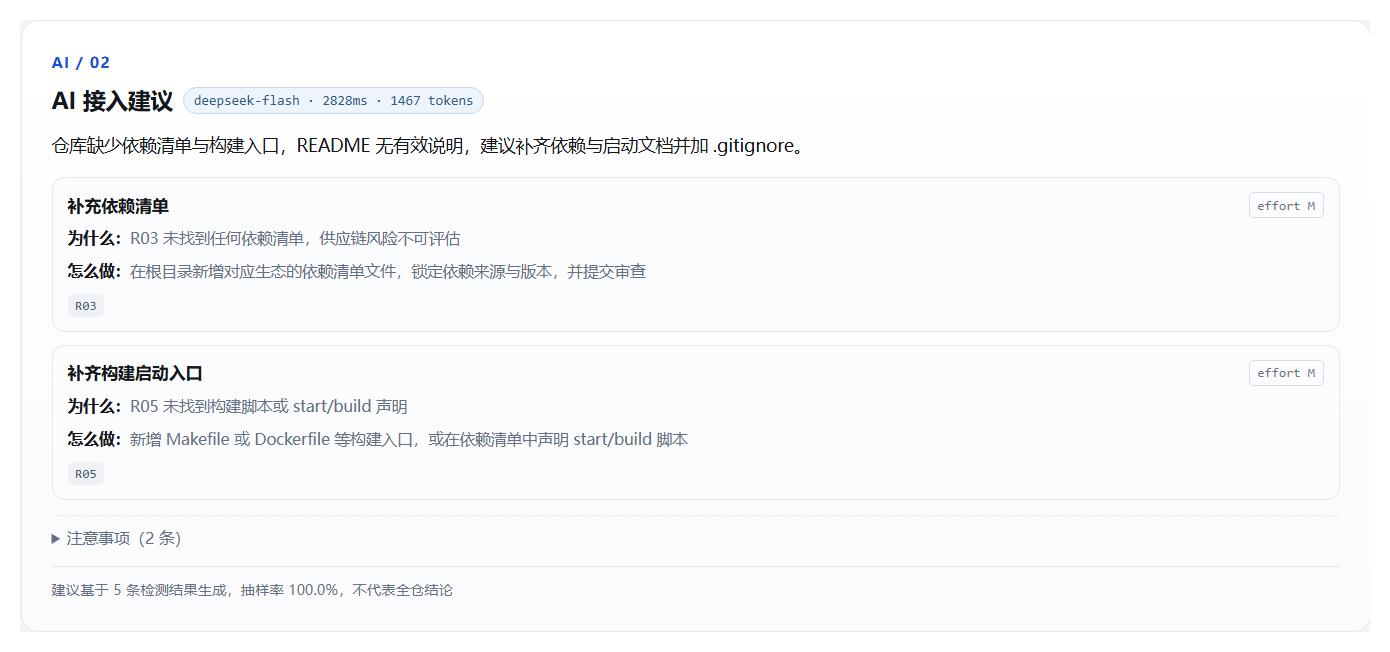
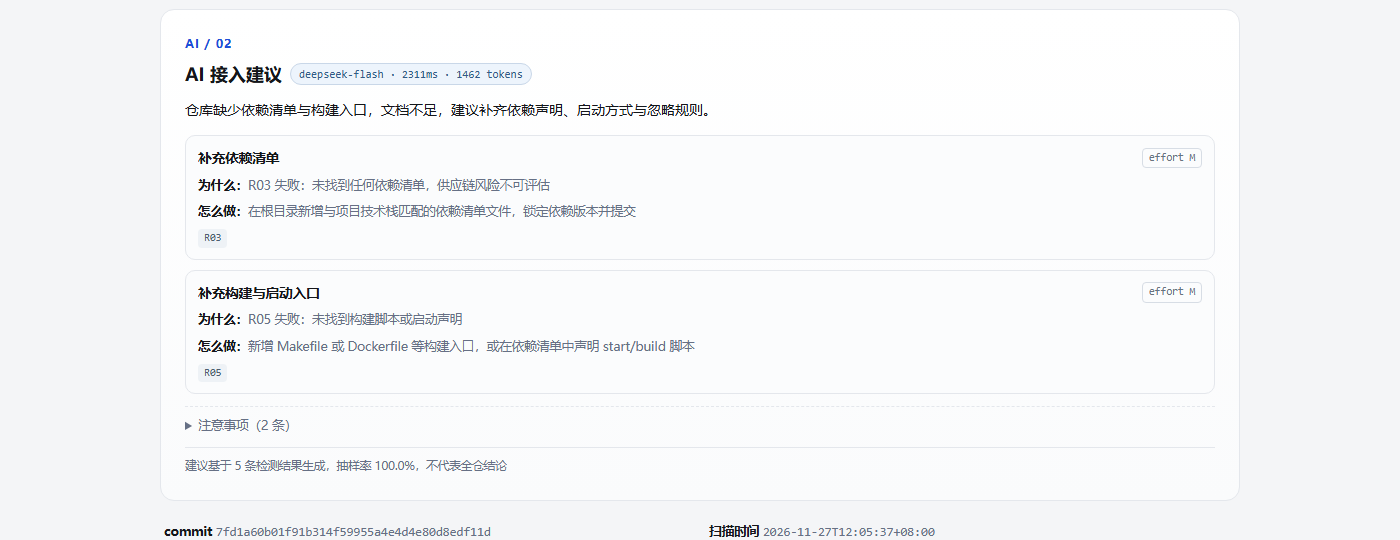
fix: 加载项目根 .env；AI 建议放开 low 规则白名单并按原因归因；页面加重新扫描与分享链接

diff --git a/app/templates/index.html b/app/templates/index.html
@@ -27,6 +27,7 @@
         value="{{ repo_url }}"
       >
       <button type="submit">检查</button>
+      <button type="submit" name="refresh" value="1" class="secondary" title="忽略缓存重新扫描；会消耗 GitHub API 配额">重新扫描</button>
     </form>
     <div class="examples" aria-label="示例仓库">
       <span class="examples-label">试试：</span>
@@ -261,7 +262,7 @@
       {% else %}
       <div class="advice-head">
         <h2>接入建议（规则生成）</h2>
-        <span class="advice-badge muted">{% if advice and advice.model %}模型失败，已回退{% else %}未配置模型{% endif %}</span>
+        <span class="advice-badge muted" title="{{ advice.fallback_reason if advice and advice.fallback_reason else '' }}">{% if not advice or not advice.model %}未配置模型{% elif advice.fallback_reason == 'quota_exceeded' %}模型额度不足，已回退{% elif advice.fallback_reason == 'rate_limited' %}模型限流，已回退{% elif advice.fallback_reason == 'timeout' %}模型超时，已回退{% elif advice.fallback_reason == 'auth_error' %}模型鉴权失败，已回退{% elif advice.fallback_reason in ('schema_invalid', 'empty_actions') %}模型输出不合规，已回退{% elif advice.fallback_reason in ('bad_json', 'bad_response') %}模型响应异常，已回退{% elif advice.fallback_reason == 'network_error' %}模型网络异常，已回退{% else %}模型失败，已回退{% endif %}</span>
       </div>
       {% endif %}
       {% if advice %}
@@ -367,9 +368,10 @@
           }
           if (hint) hint.hidden = true;
           if (skeleton) skeleton.hidden = false;
-          if (submit) {
-            submit.disabled = true;
-            submit.textContent = "检查中…";
+          var clicked = event.submitter || submit;
+          if (clicked) {
+            clicked.disabled = true;
+            clicked.textContent = "扫描中…";
           }
         });
       })();

diff --git a/app/static/style.css b/app/static/style.css
@@ -101,6 +101,16 @@ h2 {
   background: #1e40af;
 }
 
+.lookup button.secondary {
+  background: transparent;
+  color: var(--accent);
+  border: 1px solid #c7d2fe;
+}
+
+.lookup button.secondary:hover {
+  background: #eef2ff;
+}
+
 .examples {
   display: flex;
   flex-wrap: wrap;

diff --git a/app/advice.py b/app/advice.py
@@ -75,6 +75,14 @@ class AdviceValidationError(ValueError):
     """模型输出不符合服务端 schema。"""
 
 
+class AdviceCallError(ValueError):
+    """模型调用失败；reason 用于区分鉴权、额度、限流、超时与坏响应。"""
+
+    def __init__(self, reason: str, message: str) -> None:
+        super().__init__(message)
+        self.reason = reason
+
+
 @dataclass
 class RuleAdvice:
     title: str
@@ -267,11 +275,18 @@ def build_prompt(context: dict[str, Any]) -> str:
 
 
 def _allowed_rules(result: InspectResponse) -> set[str]:
-    return {
+    """允许模型引用的规则：失败/降级规则，以及任何有 finding 的规则。
+
+    只放 fail 会误伤「R09 low（.gitignore 未含 .env）」这类提示项：
+    模型给出合理建议却因规则不在白名单被整条丢弃，最后退化成 rules fallback。
+    """
+    allowed = {
         check.rule_id
         for check in result.checks
         if check.status in {"fail", "degraded", "warn"}
     }
+    allowed |= {finding.rule_id for finding in result.findings}
+    return allowed
 
 
 def _extract_json(text: str) -> dict[str, Any]:
@@ -468,7 +483,7 @@ async def _call_model(
 ) -> tuple[str, int, int]:
     config = _llm_config()
     if config is None:
-        raise AdviceValidationError("未配置 LLM")
+        raise AdviceCallError("missing_config", "未配置 LLM")
     base, key, model = config
     headers = {"Authorization": f"Bearer {key}", "Content-Type": "application/json"}
     payload = {
@@ -478,14 +493,14 @@ async def _call_model(
             {"role": "user", "content": build_prompt(context)},
         ],
         "temperature": 0.2,
-        "max_tokens": 600,
+        "max_tokens": 900,
     }
-    # DeepSeek V4 默认把 600 token 预算全部用在 reasoning_content，content 为空。
+    # DeepSeek V4 默认把 token 预算全部用在 reasoning_content，content 为空。
     # 仅对显式配置或 DeepSeek 端点关闭 thinking，保持其他 OpenAI 兼容端点不受影响。
     if os.environ.get("LLM_DISABLE_THINKING", "").strip() == "1" or "deepseek" in base.lower():
         payload["thinking"] = {"type": "disabled"}
     started = time.monotonic()
-    last_error: Exception | None = None
+    last_error: AdviceCallError | None = None
     for attempt in range(2):
         try:
             if transport is not None:
@@ -502,22 +517,44 @@ async def _call_model(
                 if close:
                     await client.aclose()
             if response.status_code >= 400:
-                raise AdviceValidationError(f"LLM HTTP {response.status_code}")
-            body = response.json()
+                raise AdviceCallError(_http_reason(response.status_code), f"LLM HTTP {response.status_code}")
+            try:
+                body = response.json()
+            except ValueError as exc:
+                raise AdviceCallError("bad_json", "LLM 响应不是合法 JSON") from exc
             choices = body.get("choices") if isinstance(body, dict) else None
             if not isinstance(choices, list) or not choices:
-                raise AdviceValidationError("LLM 响应缺少 choices")
+                raise AdviceCallError("bad_response", "LLM 响应缺少 choices")
             content = choices[0].get("message", {}).get("content")
             if not isinstance(content, str):
-                raise AdviceValidationError("LLM 响应缺少 content")
+                raise AdviceCallError("bad_response", "LLM 响应缺少 content")
             usage = body.get("usage") if isinstance(body, dict) else {}
             tokens = int(usage.get("total_tokens") or 0) if isinstance(usage, dict) else 0
             return content, tokens, int(round((time.monotonic() - started) * 1000))
-        except (httpx.HTTPError, ValueError, TypeError, AdviceValidationError) as exc:
+        except AdviceCallError as exc:
             last_error = exc
-            if attempt == 0:
-                await asyncio.sleep(0.5)
-    raise AdviceValidationError(f"LLM 调用失败：{last_error}") from last_error
+        except httpx.TimeoutException as exc:
+            last_error = AdviceCallError("timeout", f"LLM 超时：{exc}")
+        except httpx.HTTPError as exc:
+            last_error = AdviceCallError("network_error", f"LLM 网络错误：{exc}")
+        except (ValueError, TypeError) as exc:
+            last_error = AdviceCallError("llm_error", f"LLM 调用失败：{exc}")
+        if attempt == 0:
+            await asyncio.sleep(0.5)
+    assert last_error is not None
+    raise last_error
+
+
+def _http_reason(status: int) -> str:
+    if status in {401, 403}:
+        return "auth_error"
+    if status == 402:
+        return "quota_exceeded"
+    if status == 429:
+        return "rate_limited"
+    if status >= 500:
+        return "upstream_error"
+    return "http_error"
 
 
 async def build_advice(
@@ -562,10 +599,16 @@ async def build_advice(
             repo=result.repo.full_name,
             commit_sha=sha,
         )
-    except (AdviceValidationError, ValueError, TypeError) as exc:
+    except (AdviceValidationError, AdviceCallError, ValueError, TypeError) as exc:
         advice = build_rules_fallback(result)
         advice.model = configured[2]
-        advice.fallback_reason = "schema_invalid" if isinstance(exc, AdviceValidationError) else "llm_error"
+        if isinstance(exc, AdviceCallError):
+            advice.fallback_reason = exc.reason
+        elif isinstance(exc, AdviceValidationError):
+            reason = "empty_actions" if "actions 为空" in str(exc) else "schema_invalid"
+            advice.fallback_reason = reason
+        else:
+            advice.fallback_reason = "llm_error"
         advice.warnings = [
             WarningInfo(
                 code="ADVICE_FALLBACK",

diff --git a/tests/test_advice.py b/tests/test_advice.py
@@ -339,3 +339,69 @@ def test_page_escapes_model_text(monkeypatch) -> None:
     assert "<script>alert" not in html
     assert "&lt;img src=x&gt;" in html
     assert "<img src=x>" not in html
+
+
+def test_allowed_rules_include_low_finding_rules() -> None:
+    """R09 low（.gitignore 未含 .env）也允许模型引用，否则合理建议会被整条丢弃。"""
+    report = make_report()
+    report.findings = [report.findings[0].model_copy(update={"severity": "low"})]
+    report.checks = [check.model_copy(update={"status": "pass"}) for check in report.checks]
+    allowed = advice._allowed_rules(report)
+    assert "R09" in allowed
+
+
+def test_quota_error_is_classified(monkeypatch) -> None:
+    monkeypatch.setenv("LLM_BASE_URL", "http://llm.test/v1")
+    monkeypatch.setenv("LLM_API_KEY", "test-key")
+    monkeypatch.setenv("LLM_MODEL", "test-model")
+
+    def handler(_: httpx.Request) -> httpx.Response:
+        return httpx.Response(402, json={"error": "insufficient balance"})
+
+    report = make_report()
+    result = asyncio.run(advice.build_advice(report, transport=httpx.MockTransport(handler)))
+    assert result.source == "rules_fallback"
+    assert result.fallback_reason == "quota_exceeded"
+    assert "402" in result.warnings[0].message
+
+
+def test_timeout_error_is_classified(monkeypatch) -> None:
+    monkeypatch.setenv("LLM_BASE_URL", "http://llm.test/v1")
+    monkeypatch.setenv("LLM_API_KEY", "test-key")
+    monkeypatch.setenv("LLM_MODEL", "test-model")
+
+    def handler(_: httpx.Request) -> httpx.Response:
+        raise httpx.ReadTimeout("timeout")
+
+    report = make_report()
+    result = asyncio.run(advice.build_advice(report, transport=httpx.MockTransport(handler)))
+    assert result.fallback_reason == "timeout"
+
+
+def test_refresh_button_passes_flag(monkeypatch) -> None:
+    calls: dict[str, bool] = {}
+
+    async def fake_inspect(_: str, *, refresh: bool = False) -> InspectResponse:
+        calls["refresh"] = refresh
+        return make_report()
+
+    monkeypatch.setattr(main, "_inspect", fake_inspect)
+    client = TestClient(main.app)
+    response = client.post(
+        "/", data={"repo_url": "https://github.com/octocat/Hello-World", "refresh": "1"}
+    )
+    assert response.status_code == 200
+    assert calls["refresh"] is True
+    assert "重新扫描" in response.text
+
+
+def test_get_with_repo_renders_shared_report(monkeypatch) -> None:
+    async def fake_inspect(_: str, *, refresh: bool = False) -> InspectResponse:
+        return make_report()
+
+    monkeypatch.setattr(main, "_inspect", fake_inspect)
+    client = TestClient(main.app)
+    response = client.get("/?repo=https://github.com/octocat/Hello-World")
+    assert response.status_code == 200
+    assert "59" in response.text
+    assert "不建议接入" in response.text

diff --git a/app/main.py b/app/main.py
@@ -9,6 +9,7 @@ import time
 from contextlib import asynccontextmanager
 from pathlib import Path
 
+from dotenv import load_dotenv
 from fastapi import FastAPI, Form, Query, Request
 from fastapi.exceptions import RequestValidationError
 from fastapi.responses import HTMLResponse, JSONResponse
@@ -47,7 +48,12 @@ from .treescan import scan_tree
 from .version import ENGINE_VERSION, SCHEMA_VERSION
 
 BASE_DIR = Path(__file__).resolve().parent
+ENV_FILE = BASE_DIR.parent / ".env"
 logger = logging.getLogger("repogate")
+
+# README 的配置方式是复制 .env.example 到项目根目录 .env；这里显式加载，
+# 避免仅靠 shell 环境变量导致页面显示「未配置模型」。
+load_dotenv(ENV_FILE, override=False)
 
 _HINT_SUFFIX_RE = re.compile(r"；(?:另)?(?:仅)?提示 \d+ 条(?:（-\d+）)?$")
 
@@ -504,7 +510,12 @@ async def api_rules() -> RulesResponse:
 
 
 @app.get("/", response_class=HTMLResponse)
-async def index(request: Request) -> HTMLResponse:
+async def index(
+    request: Request,
+    repo: str | None = Query(None, description="可选：直接渲染该仓库报告，便于分享链接"),
+) -> HTMLResponse:
+    if repo:
+        return await _render_report(request, repo, refresh=False)
     return templates.TemplateResponse(
         request,
         "index.html",
@@ -513,9 +524,15 @@ async def index(request: Request) -> HTMLResponse:
 
 
 @app.post("/", response_class=HTMLResponse)
-async def index_submit(request: Request, repo_url: str = Form(...)) -> HTMLResponse:
+async def index_submit(
+    request: Request, repo_url: str = Form(...), refresh: str = Form("0")
+) -> HTMLResponse:
+    return await _render_report(request, repo_url, refresh=refresh == "1")
+
+
+async def _render_report(request: Request, repo_url: str, *, refresh: bool) -> HTMLResponse:
     try:
-        result = await _inspect(repo_url)
+        result = await _inspect(repo_url, refresh=refresh)
     except ScanError as error:
         logger.info("inspect failed code=%s repo_url=%s", error.code, repo_url)
         return templates.TemplateResponse(

diff --git a/tests/test_env_loading.py b/tests/test_env_loading.py
@@ -1,0 +1,22 @@
+from __future__ import annotations
+
+import os
+from pathlib import Path
+
+from dotenv import load_dotenv
+
+from app import main
+
+
+def test_env_file_points_to_project_root() -> None:
+    """README 要求把 .env 放在项目根目录，加载路径必须与文档一致。"""
+    assert main.ENV_FILE == Path(main.BASE_DIR).parent / ".env"
+    assert main.ENV_FILE.name == ".env"
+
+
+def test_dotenv_reads_model_config(tmp_path, monkeypatch) -> None:
+    monkeypatch.delenv("LLM_MODEL", raising=False)
+    env_file = tmp_path / ".env"
+    env_file.write_text("LLM_MODEL=test-model\n", encoding="utf-8")
+    assert load_dotenv(env_file, override=False) is True
+    assert os.environ["LLM_MODEL"] == "test-model"
